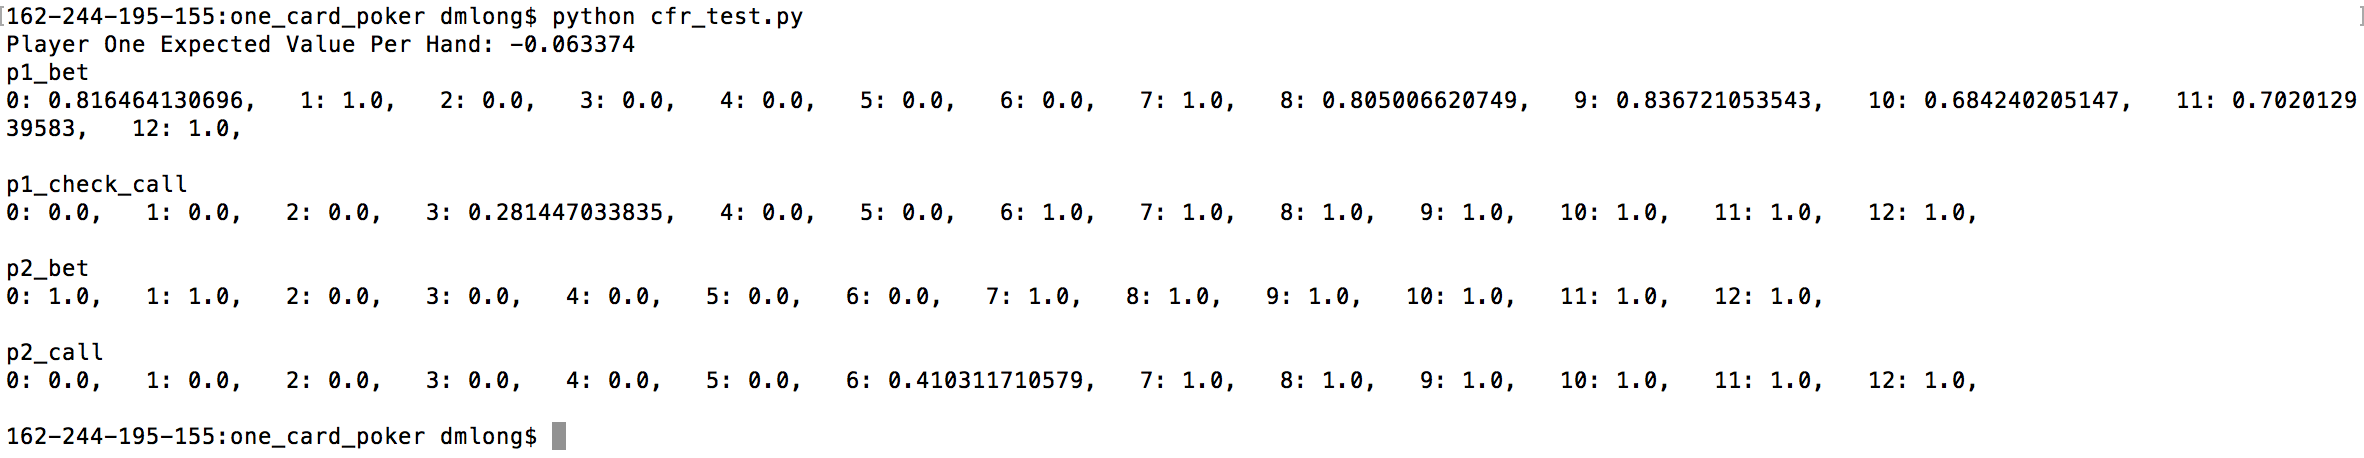
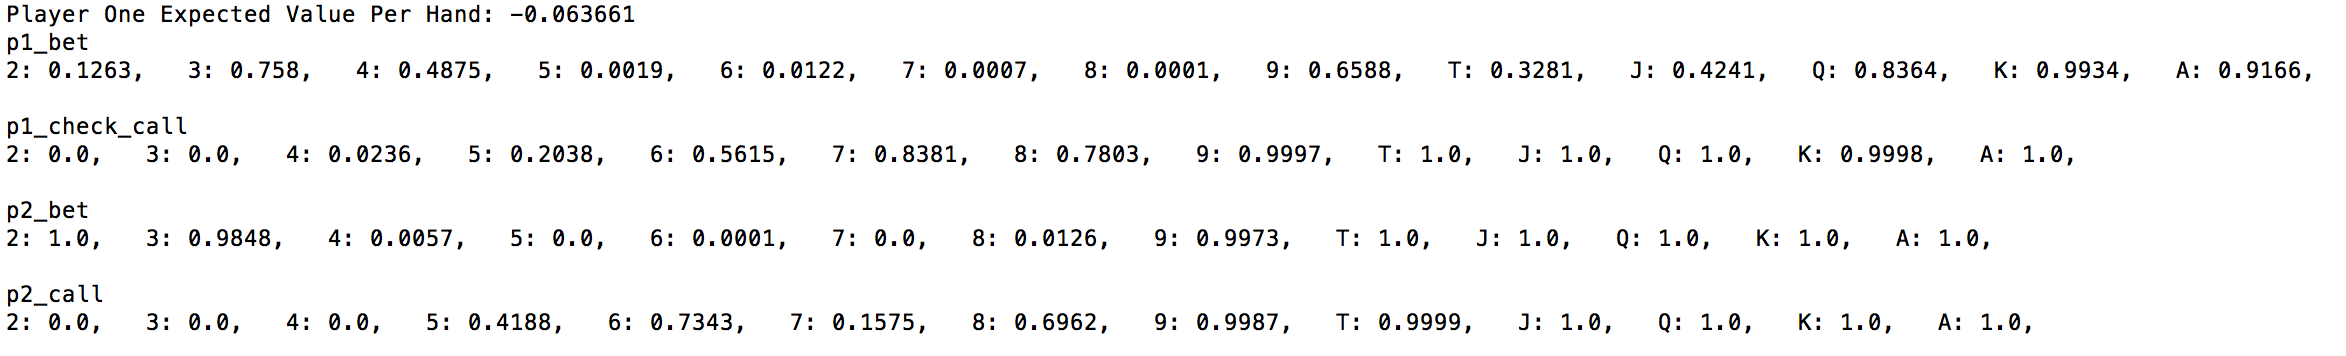
Adjusted readibility of test results

diff --git a/cfr_player.py b/cfr_player.py
@@ -28,14 +28,14 @@ class CFRPlayer():
 
             card = int(history[0])
             if len(history) == 1:
-                result['p1_bet'][card] = node.strategy_[Game.BET]
+                result['p1_bet'][card] = node.get_average_strategy()[Game.BET]
             elif len(history) == 2:
                 if history[1] == Game.CHECK:
-                    result['p2_bet'][card] = node.strategy_[Game.BET]
+                    result['p2_bet'][card] = node.get_average_strategy()[Game.BET]
                 else:
-                    result['p2_call'][card] = node.strategy_[Game.CALL]
+                    result['p2_call'][card] = node.get_average_strategy()[Game.CALL]
             elif len(history) == 3:
-                result['p1_check_call'][card] = node.strategy_[Game.CALL]
+                result['p1_check_call'][card] = node.get_average_strategy()[Game.CALL]
 
         return result
 
@@ -147,7 +147,7 @@ class Node():
         return self.strategy_
 
     def get_average_strategy(self):
-        average_strategy = dict
+        average_strategy = dict()
         normalizing_sum = 0
 
         for action in self.actions_:

diff --git a/cfr_test.py b/cfr_test.py
@@ -1,7 +1,7 @@
 from cfr_player import CFRPlayer
 
 cfr = CFRPlayer()
-util = cfr.train(1000000)
+util = cfr.train(3000000)
 
 print "Player One Expected Value Per Hand: %f" % util
 
@@ -11,6 +11,19 @@ for decision in sorted(result):
     print decision
     output = ""
     for card in sorted(result[decision]):
-        output += str(card) + ": " + str(result[decision][card]) + ",   "
+        temp = card + 2
+        card_name = str(temp)
+        if temp == 10:
+            card_name = 'T'
+        elif temp == 11:
+            card_name = 'J'
+        elif temp == 12:
+            card_name = 'Q'
+        elif temp == 13:
+            card_name = 'K'
+        elif temp == 14:
+            card_name = 'A'
+
+        output += card_name + ": " + str( round(result[decision][card], 4) ) + ",   "
 
     print output + "\n"
